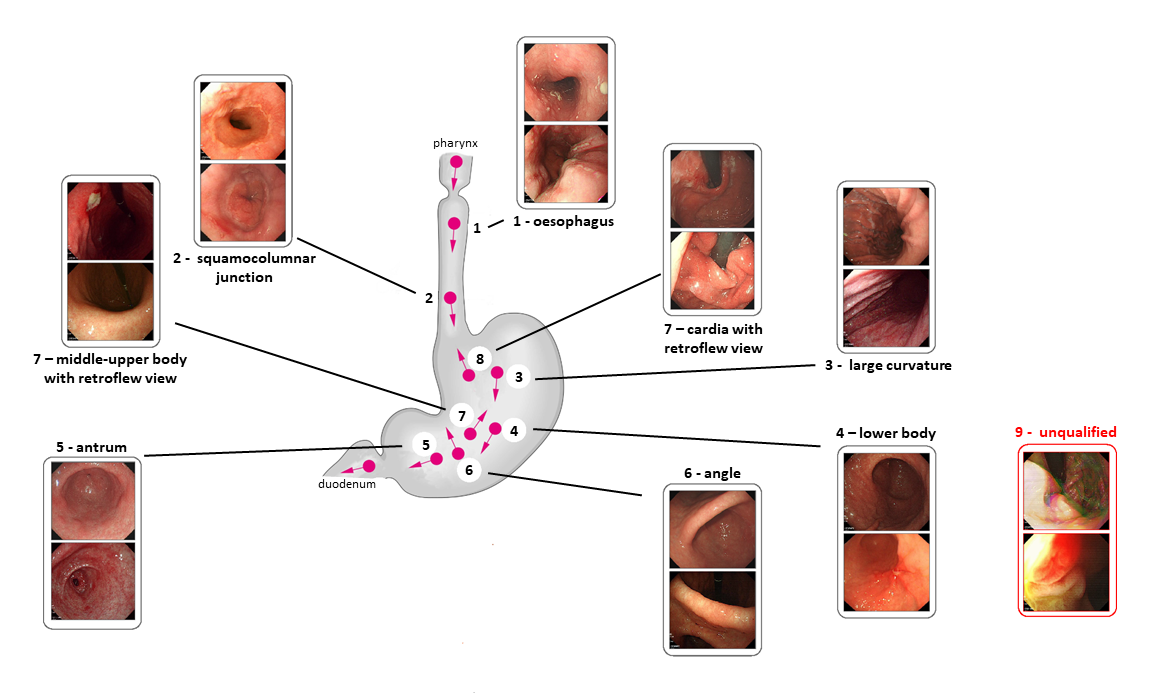
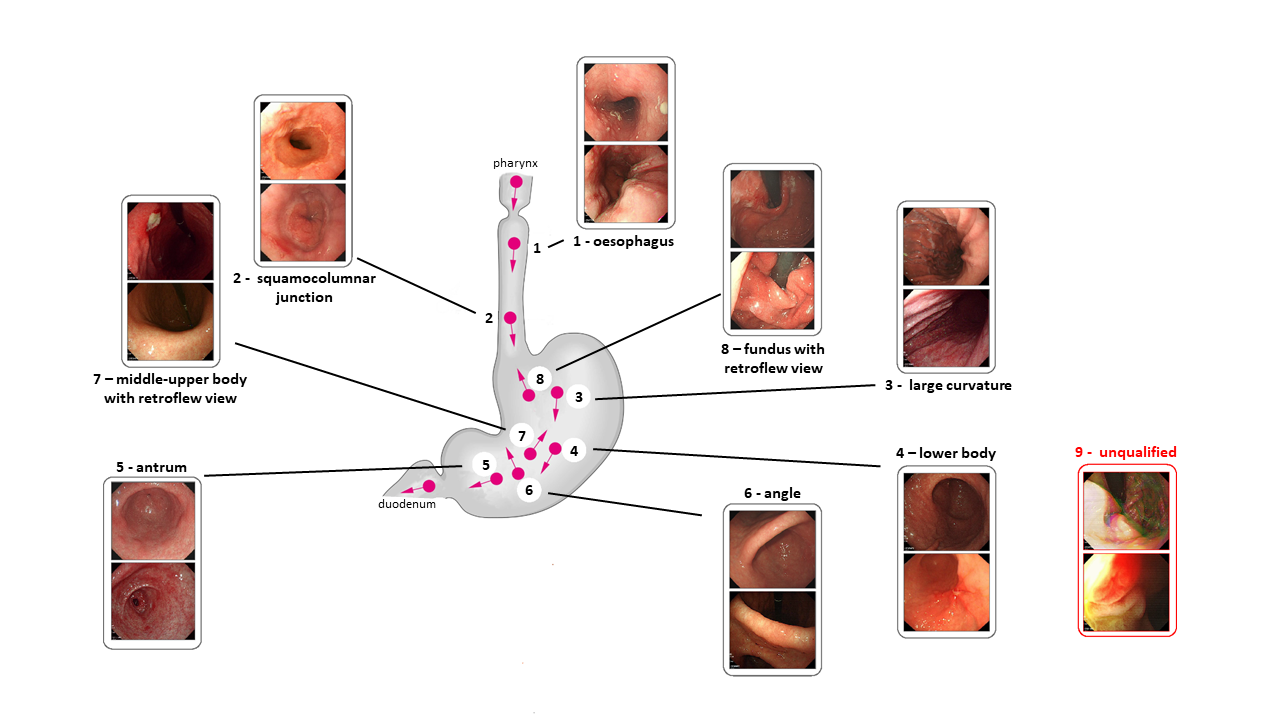
Refactor retro-flex cardia to retro-flex fundus

Changed region(s): [[0.0307, 0.0606, 0.8294, 0.9697], [0.8294, 0.6061, 0.9522, 0.9091], [0.2457, 0.5152, 0.3072, 0.5455]]

diff --git a/DataSelection/selection_tool.py b/DataSelection/selection_tool.py
@@ -9,6 +9,17 @@ import tkinter
 from queue import *
 from tkinter import filedialog, messagebox
 
+# ANATOMICAL SITES NAMES
+OESOPHAGUS = "oesophagus"
+JUNCTION = "junction"
+GCG = "grande courbure gastrique"
+CGI = "corps gastrique inferieur"
+PYLORE = "pylore-antre"
+ANGLE = "angle"
+RVC = "retro vision - fundus"
+RVMUB = "retro vision - middle_upper body"
+UQ = "unqualified"
+
 DATA_PATH = sys.argv[1]
 INPUT_PATH = ""
 base_name = ""
@@ -21,27 +32,27 @@ def text_on_frame(dispframe_, c):
     :param dispframe_: frame on which the information have to be added
     :return: updated frame
     """
-    dispframe_ = cv.putText(dispframe_, "0 = oesophagus", (5, 20), cv.FONT_HERSHEY_SIMPLEX, .4, (0, 0, 255), 1,
+    dispframe_ = cv.putText(dispframe_, "0 = %s" % OESOPHAGUS, (5, 20), cv.FONT_HERSHEY_SIMPLEX, .4, (0, 0, 255), 1,
                             cv.LINE_AA)
-    dispframe_ = cv.putText(dispframe_, "1 = junction", (5, 40), cv.FONT_HERSHEY_SIMPLEX, .4, (0, 0, 255), 1,
+    dispframe_ = cv.putText(dispframe_, "1 = %s" % JUNCTION, (5, 40), cv.FONT_HERSHEY_SIMPLEX, .4, (0, 0, 255), 1,
                             cv.LINE_AA)
-    dispframe_ = cv.putText(dispframe_, "2 = grande courbure gastrique", (5, 60), cv.FONT_HERSHEY_SIMPLEX, .4,
+    dispframe_ = cv.putText(dispframe_, "2 = %s" % GCG, (5, 60), cv.FONT_HERSHEY_SIMPLEX, .4,
                             (0, 0, 255), 1,
                             cv.LINE_AA)
-    dispframe_ = cv.putText(dispframe_, "3 = corps gastrique inferieur", (5, 80), cv.FONT_HERSHEY_SIMPLEX, .4,
+    dispframe_ = cv.putText(dispframe_, "3 = %s" % CGI, (5, 80), cv.FONT_HERSHEY_SIMPLEX, .4,
                             (0, 0, 255), 1,
                             cv.LINE_AA)
-    dispframe_ = cv.putText(dispframe_, "4 = pylore-antre", (5, 100), cv.FONT_HERSHEY_SIMPLEX, .4, (0, 0, 255), 1,
+    dispframe_ = cv.putText(dispframe_, "4 = %s" % PYLORE, (5, 100), cv.FONT_HERSHEY_SIMPLEX, .4, (0, 0, 255), 1,
                             cv.LINE_AA)
-    dispframe_ = cv.putText(dispframe_, "5 = angle", (5, 120), cv.FONT_HERSHEY_SIMPLEX, .4, (0, 0, 255), 1,
+    dispframe_ = cv.putText(dispframe_, "5 = %s" % ANGLE, (5, 120), cv.FONT_HERSHEY_SIMPLEX, .4, (0, 0, 255), 1,
                             cv.LINE_AA)
-    dispframe_ = cv.putText(dispframe_, "6 = retro vision - cardia", (5, 140), cv.FONT_HERSHEY_SIMPLEX, .4, (0, 0, 255),
+    dispframe_ = cv.putText(dispframe_, "6 = %s" % RVC, (5, 140), cv.FONT_HERSHEY_SIMPLEX, .4, (0, 0, 255),
                             1,
                             cv.LINE_AA)
-    #dispframe_ = cv.putText(dispframe_, "7 = sur angulaire-petite courbure", (5, 160), cv.FONT_HERSHEY_SIMPLEX, .4,
-    #                        (0, 0, 255), 1,
-    #                        cv.LINE_AA)
-    dispframe_ = cv.putText(dispframe_, "8 = unqualified", (5, 180), cv.FONT_HERSHEY_SIMPLEX, .4, (0, 0, 255), 1,
+    dispframe_ = cv.putText(dispframe_, "7 = %s" % RVMUB, (5, 160), cv.FONT_HERSHEY_SIMPLEX, .4,
+                            (0, 0, 255), 1,
+                            cv.LINE_AA)
+    dispframe_ = cv.putText(dispframe_, "8 = %s" % UQ, (5, 180), cv.FONT_HERSHEY_SIMPLEX, .4, (0, 0, 255), 1,
                             cv.LINE_AA)
     dispframe_ = cv.putText(dispframe_, "counter = %s" % str(c), (5, 250), cv.FONT_HERSHEY_SIMPLEX, .4, (0, 0, 255), 1,
                             cv.LINE_AA)
@@ -79,31 +90,31 @@ class KeySwitch:
         return getattr(self, 'case_' + chr(key), lambda: default_key)()
 
     def case_0(self):
-        return True, "oesophagus"
+        return True, OESOPHAGUS
 
     def case_1(self):
-        return True, "junction"
+        return True, JUNCTION
 
     def case_2(self):
-        return True, "grande courbure gastrique"
+        return True, GCG
 
     def case_3(self):
-        return True, "corps gastrique inferieur"
+        return True, CGI
 
     def case_4(self):
-        return True, "pylore-antre"
+        return True, PYLORE
 
     def case_5(self):
-        return True, "angle"
+        return True, ANGLE
 
     def case_6(self):
-        return True, "retro vision - cardia"
+        return True, RVC
 
     def case_7(self):
-        return True, "sur angulaire-petite courbure"
+        return True, RVMUB
 
     def case_8(self):
-        return True, "unqualified"
+        return True, UQ
 
 
 def video(cap_):
